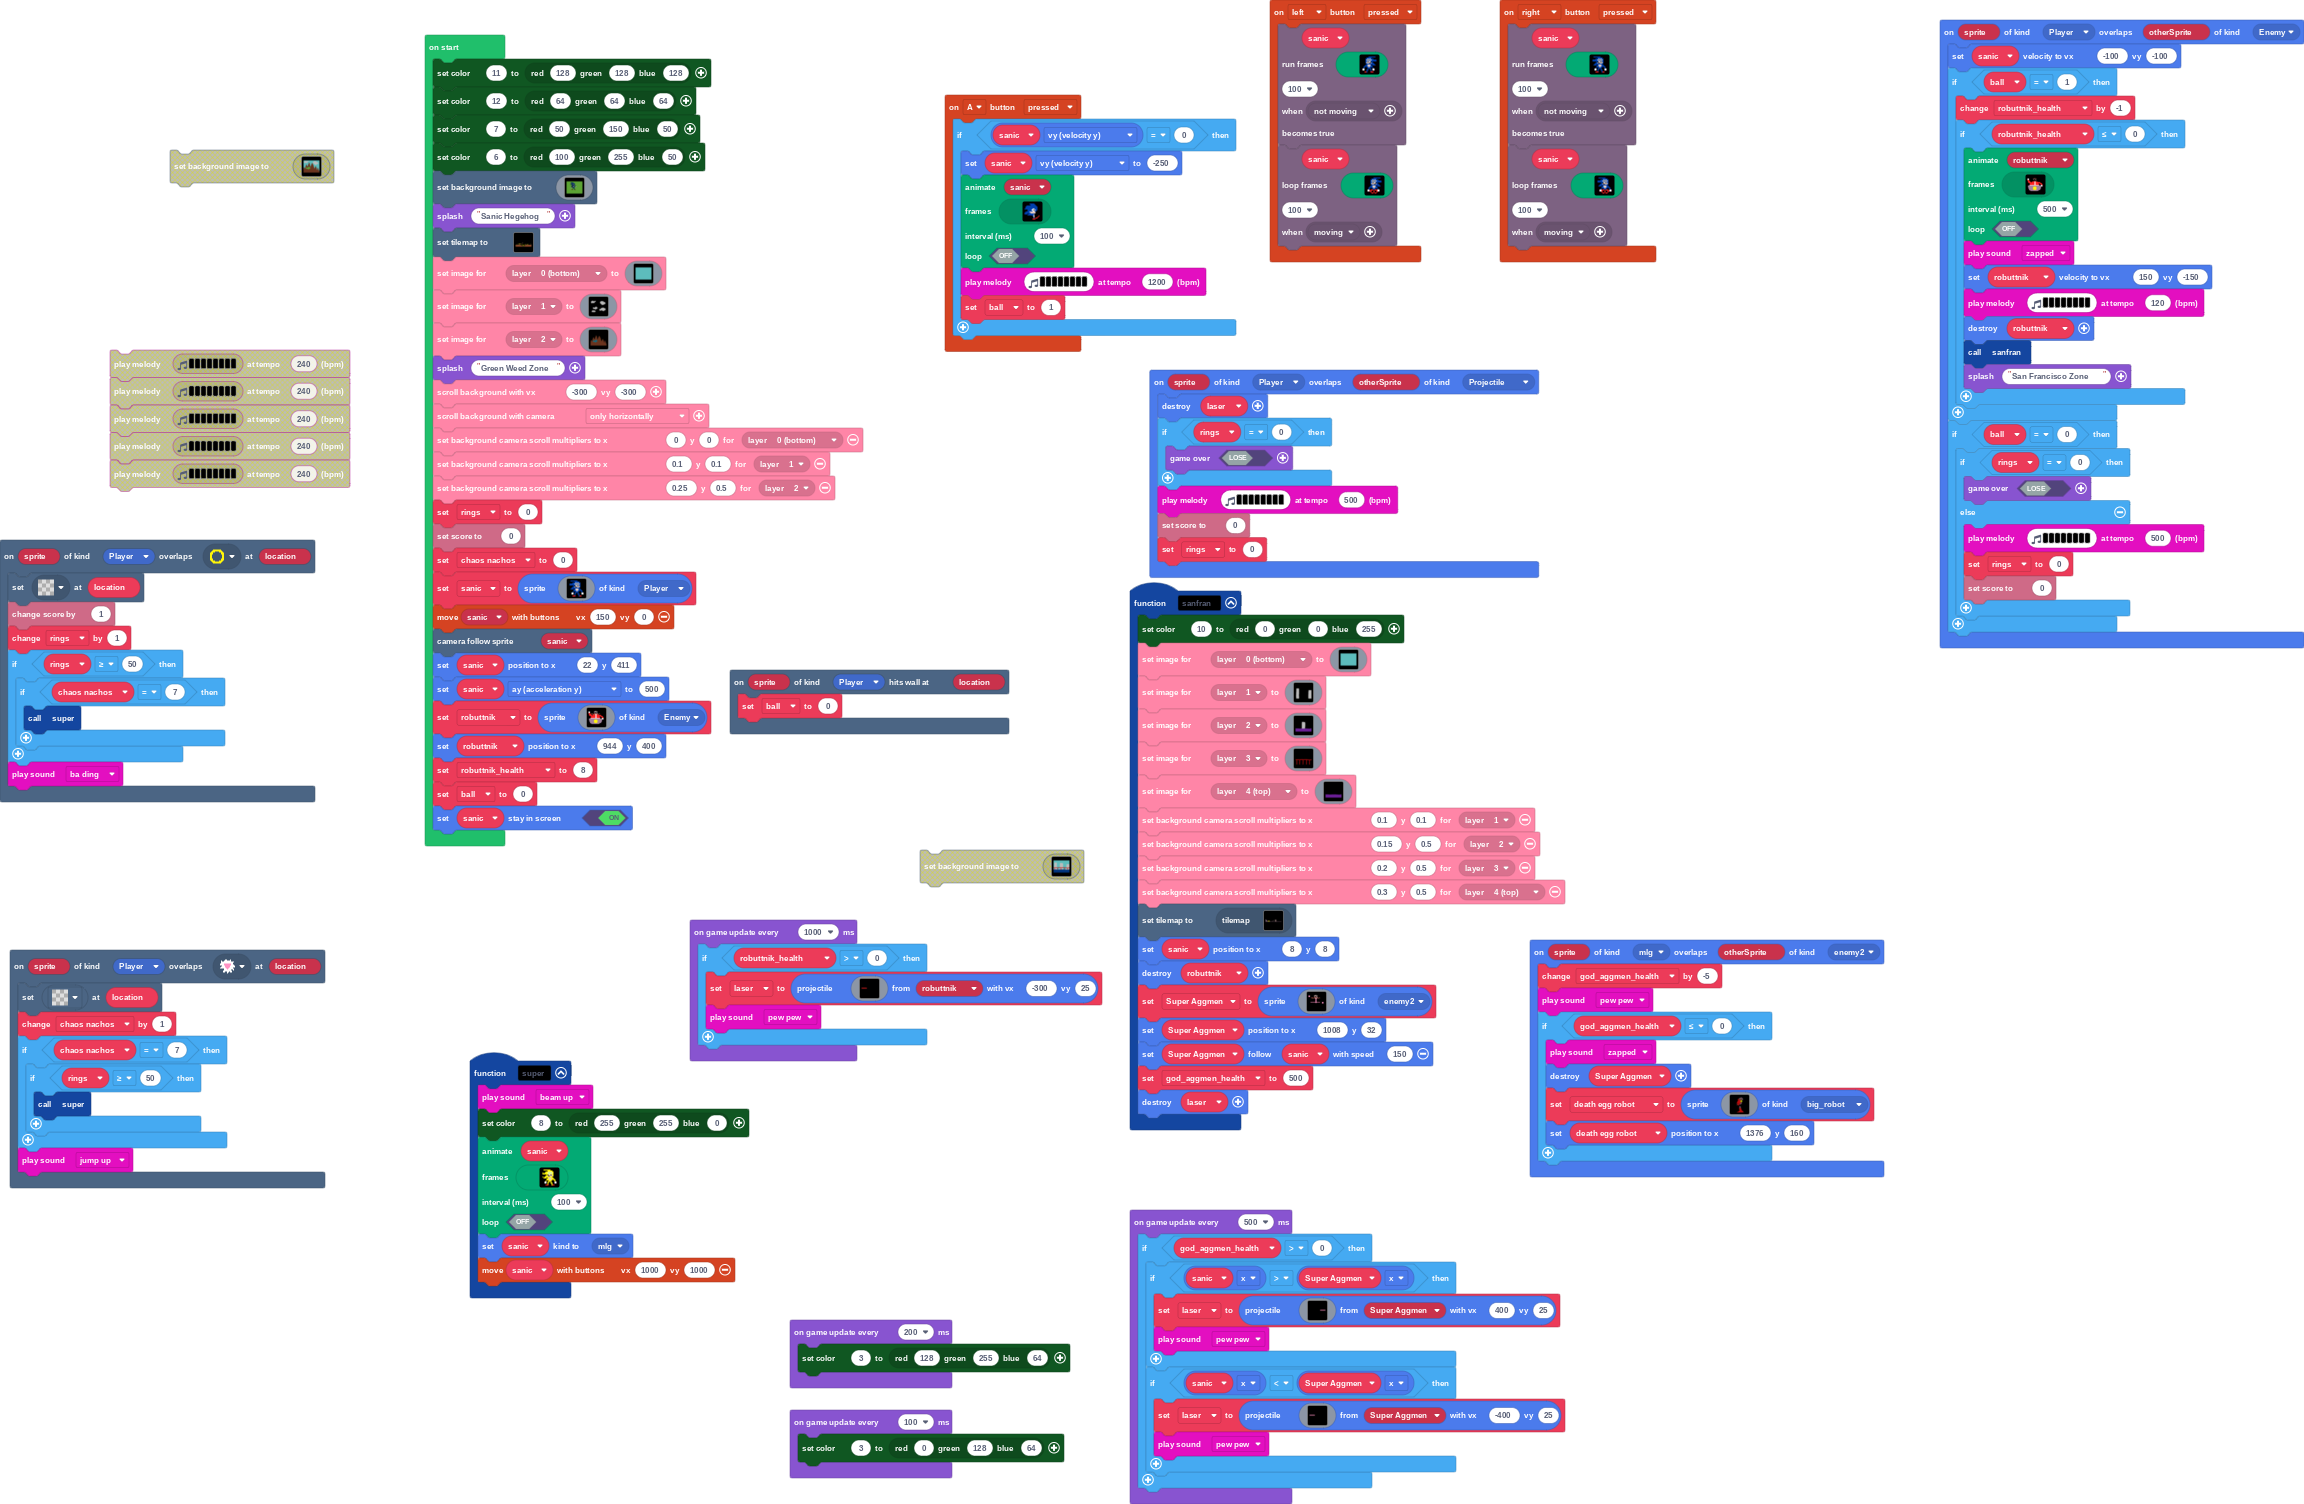
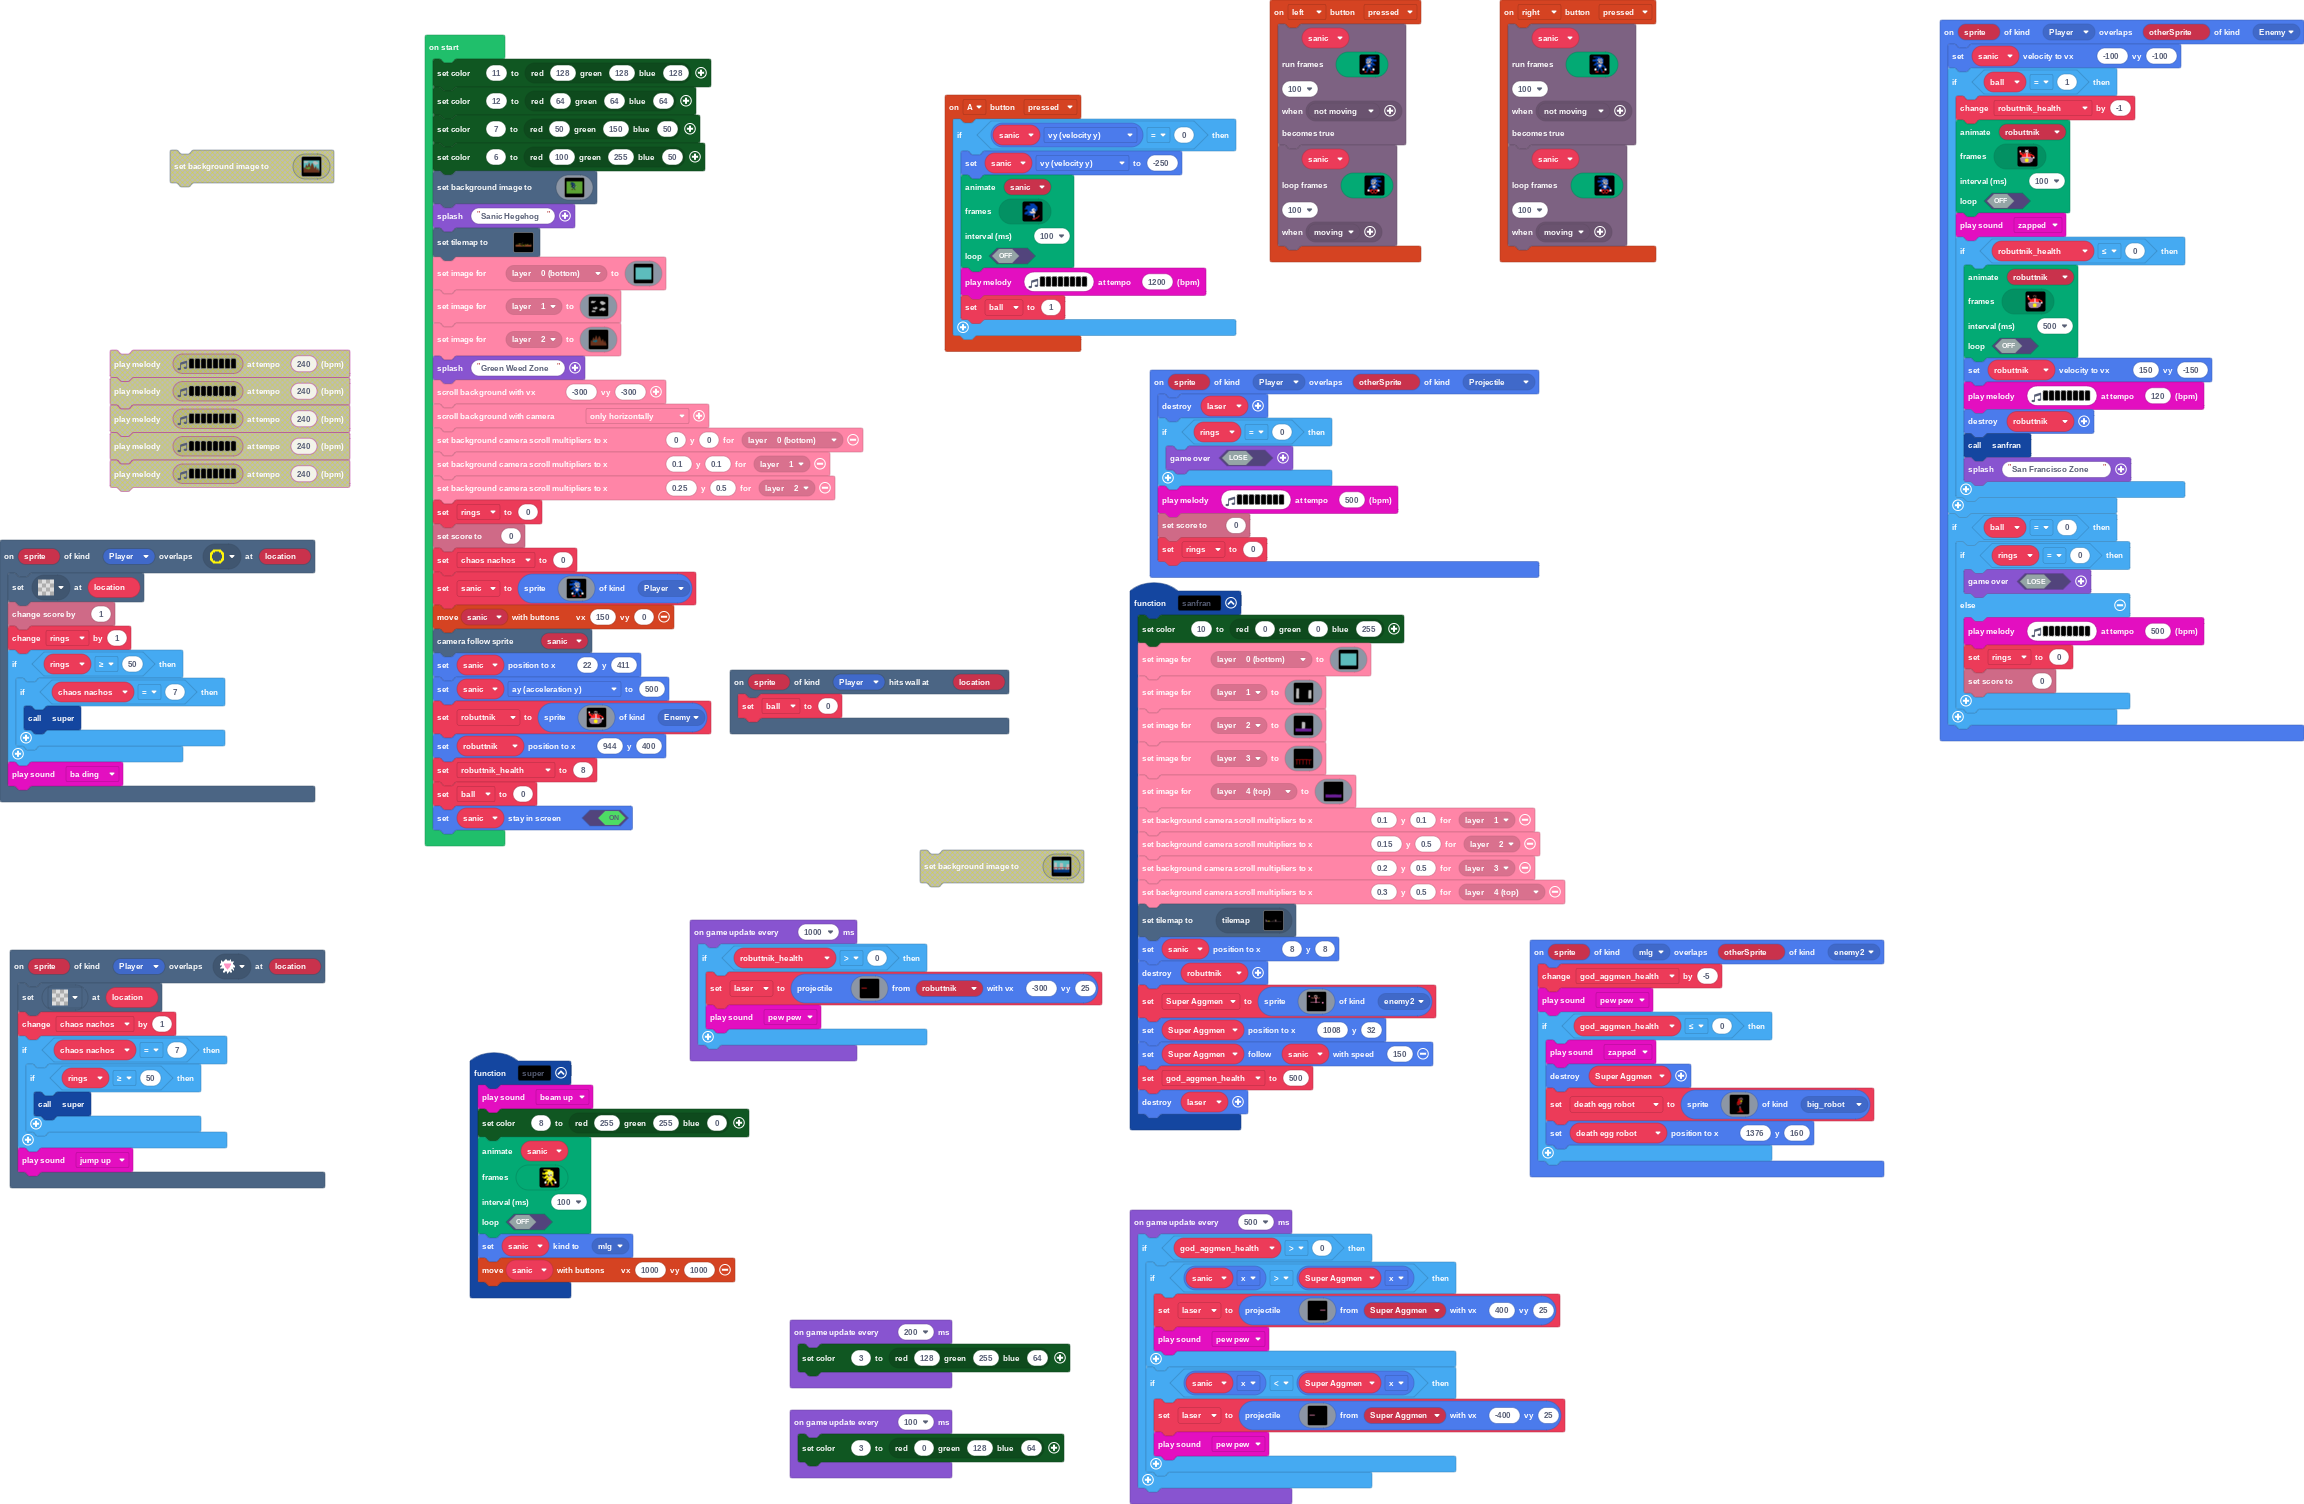
Update pxt.json, main.blocks, main.ts

Changed region(s): [[0.8438, 0.0625, 1.0, 0.5]]

diff --git a/main.ts b/main.ts
@@ -1228,6 +1228,79 @@ sprites.onOverlap(SpriteKind.Player, SpriteKind.Enemy, function (sprite, otherSp
     sanic.setVelocity(-100, -100)
     if (ball == 1) {
         robuttnik_health += -1
+        animation.runImageAnimation(
+        robuttnik,
+        [img`
+            ................................
+            ................................
+            ...........1.....1..............
+            ............1ddd1...............
+            111........dd1d1dd..............
+            111........d1d1d1d..............
+            111........1811181..............
+            222........e1eed1d..............
+            2222.eeeee.eeeeeeeee.ee.........
+            .2222.eeeee.dddddeeee.e.........
+            .22222...22222112222............
+            .222222.22222211222222222.......
+            ..222222222222112222222222......
+            ....222222222211222222.22222....
+            .....222222222112222222..2222...
+            .....222222222112222222...2222..
+            ....2222222222112222222....222..
+            ....1111111111111111111....111..
+            .bbbbbbbbbbbbbbbbbbbbbbbbbb111..
+            .bbbbbbbbbbbbbbbbbbbbbbbbbb111..
+            .bbbbbbbbbbb55555bbbbbbbbbb.....
+            .bbbbbbbbbb5555555bbbbbbbbb.....
+            ..bbbbbbbbb5555555bbbbbbbbb.....
+            ..bbbbbbbbb5555555bbbbbbbbb.....
+            ..bbbbbbbbb5555555bbbbbbbb......
+            ...bbbbbbbb5555555bbbbbbbb......
+            ...bbbbbbbbb55555bbbbbbbb.......
+            ....bbbbbbbbbbbbbbbbbbb.........
+            ......bbbbbbbbbbbbbbb...........
+            ................................
+            ................................
+            ................................
+            `,img`
+            ................................
+            ................................
+            ...........f.....f..............
+            ............fdddf...............
+            111........ddfdfdd..............
+            111........dfdfdfd..............
+            111........f8fff8f..............
+            222........efeedfd..............
+            2222.eeeee.eeeeeeeee.ee.........
+            .2222.eeeee.dddddeeee.e.........
+            .22222...22222112222............
+            .222222.22222211222222222.......
+            ..222222222222112222222222......
+            ....222222222211222222.22222....
+            .....222222222112222222..2222...
+            .....222222222112222222...2222..
+            ....2222222222112222222....222..
+            ....1111111111111111111....111..
+            .bbbbbbbbbbbbbbbbbbbbbbbbbb111..
+            .bbbbbbbbbbbbbbbbbbbbbbbbbb111..
+            .bbbbbbbbbbb55555bbbbbbbbbb.....
+            .bbbbbbbbbb5555555bbbbbbbbb.....
+            ..bbbbbbbbb5555555bbbbbbbbb.....
+            ..bbbbbbbbb5555555bbbbbbbbb.....
+            ..bbbbbbbbb5555555bbbbbbbb......
+            ...bbbbbbbb5555555bbbbbbbb......
+            ...bbbbbbbbb55555bbbbbbbb.......
+            ....bbbbbbbbbbbbbbbbbbb.........
+            ......bbbbbbbbbbbbbbb...........
+            ................................
+            ................................
+            ................................
+            `],
+        100,
+        false
+        )
+        music.zapped.play()
         if (robuttnik_health <= 0) {
             animation.runImageAnimation(
             robuttnik,
@@ -1268,7 +1341,6 @@ sprites.onOverlap(SpriteKind.Player, SpriteKind.Enemy, function (sprite, otherSp
             500,
             false
             )
-            music.zapped.play()
             robuttnik.setVelocity(150, -150)
             music.playMelody("D D E E G A C5 D ", 120)
             robuttnik.destroy()
